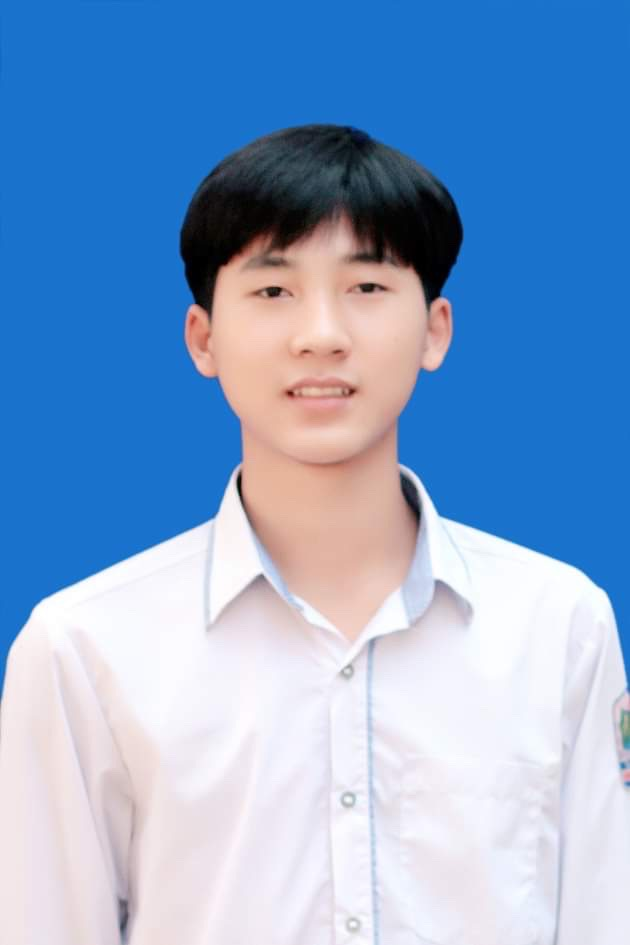
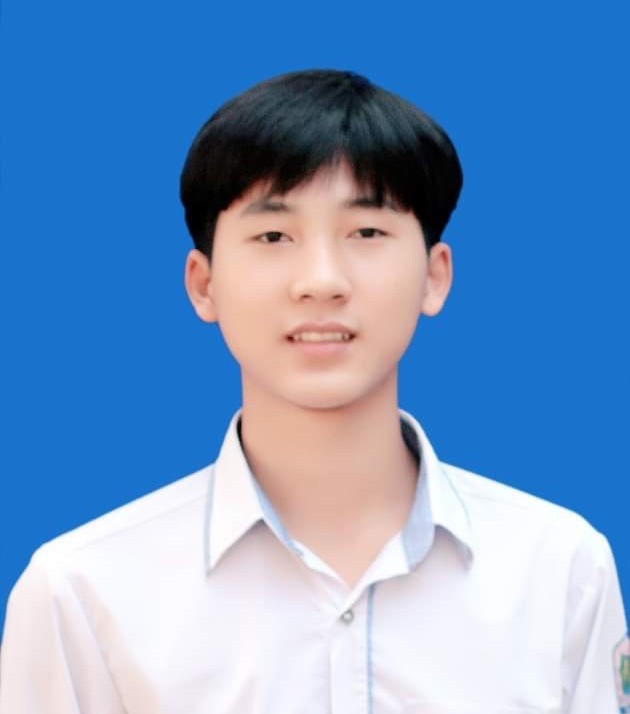
cv commit

diff --git a/index.html b/index.html
@@ -22,15 +22,7 @@
         <div id="sidebar">
           <div data-v-613ec977="" class="profile" lang="en">
             <div data-v-613ec977="" class="avatar">
-              <a
-                data-v-613ec977=""
-                target="_blank"
-                href="https://web.facebook.com/tien.t.duy/?locale=vi_VN"
-                ><img
-                  data-v-613ec977=""
-                  src="../assets/avatar.jpg"
-                  alt="Thai Duy Tien"
-              /></a>
+              <a><img src="/assets/avatar.jpg" alt="Thai Duy Tien" /></a>
             </div>
             <div data-v-613ec977="" class="block-content">
               <div data-v-613ec977="" class="item phone">

diff --git a/index.css b/index.css
@@ -141,31 +141,6 @@ img {
 .widgets + .widgets {
   margin-top: 40px;
 }
-.avatar[data-v-613ec977] {
-  position: relative;
-}
-
-.avatar[data-v-613ec977]:before {
-  content: "";
-  display: block;
-  padding-top: 110%;
-}
-
-.avatar a[data-v-613ec977] {
-  position: absolute;
-  display: block;
-  top: 0;
-  left: 0;
-  bottom: 0;
-  right: 0;
-}
-
-.avatar img[data-v-613ec977] {
-  position: absolute;
-  width: 100%;
-  height: 100%;
-  object-fit: cover;
-}
 
 .block-content .item[data-v-613ec977] {
   padding: 14px 20px;
